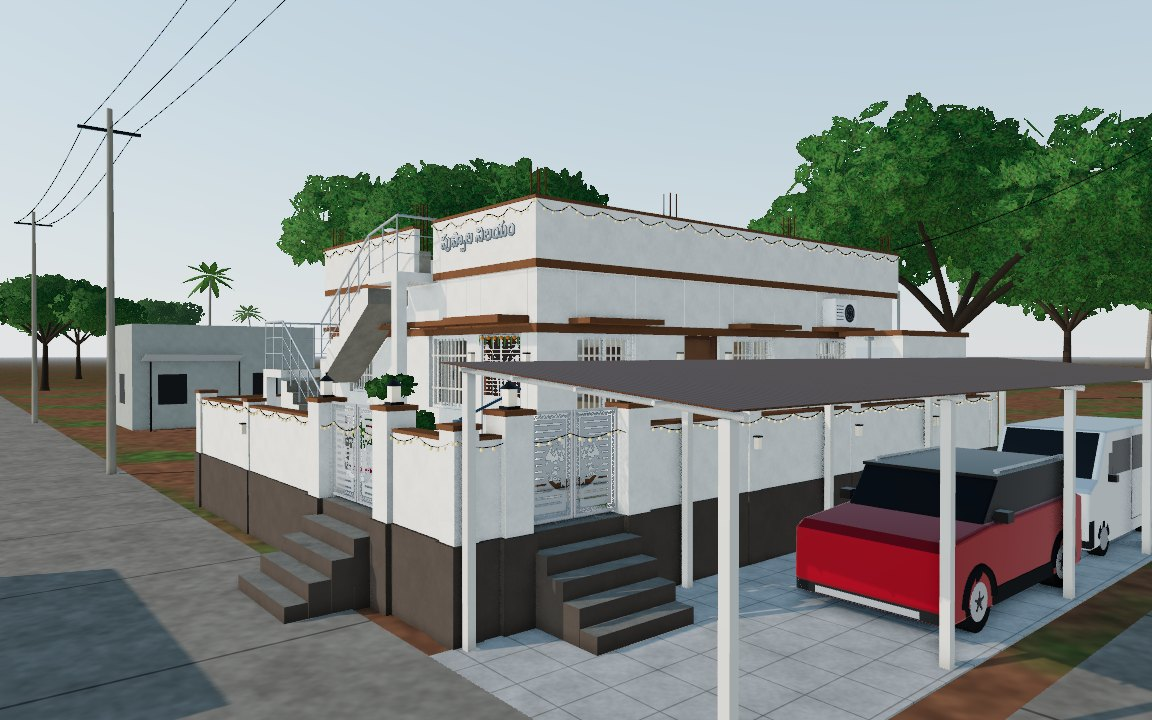
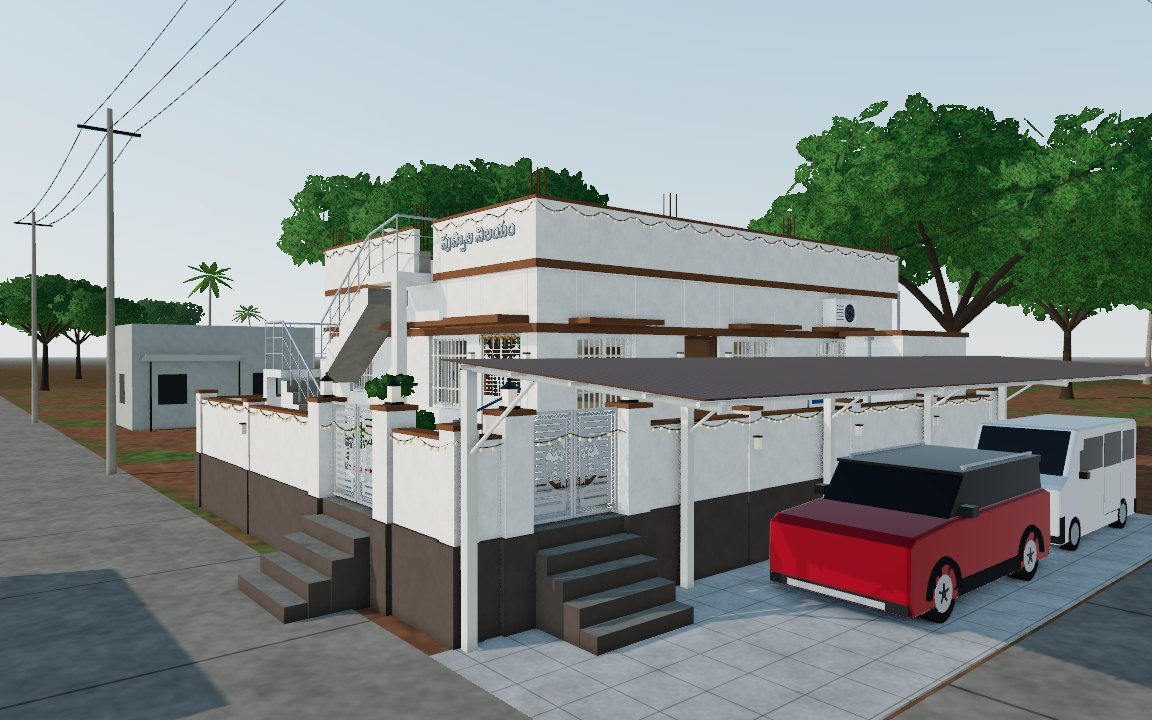
House model: cantilever car shed on the measured 12 ft strip
- North strip set to the measured 12 ft (4 gaja)
- Car shed cantilevers from wall-side columns with knee braces; no
  pillars on the road side, open entry from the east road
- Cars re-parked with about 3 ft for the driver's door
- Notes on tandem parking and sizing the cantilever

Claude-Session: https://claude.ai/code/session_0192vssTeX4mK8UEQq28xkYb

diff --git a/public/house/index.html b/public/house/index.html
@@ -581,14 +581,14 @@
         <li>House name <span lang="te">పుప్పాల నిలయం</span> in raised stainless steel letters fixed to the front parapet above the main door, with a warm backlight at night.</li>
         <li>Whole plot raised: the yard is earth-filled about 3′6″ above the road and the house floor sits 4′ above the road. The main door and north door have short slopes instead of steps. Both gates open at yard level, with four steps down to the road outside each one. The compound wall is a retaining wall up to yard level with 3′6″ of wall above.</li>
         <li>Steel safety door in front of the wooden main door, with a grill top with flower stems, latch and padlock, and laser-cut rose and fern panels below. Main gate and north gate in silver laser-cut steel with a floral border, floral half circles meeting in the middle, and horizontal slots.</li>
-        <li>Car shed along the full length of the north boundary wall, about 12′ × 44′, with steel columns in the wall colour and a colour-coated sheet roof in the band colour, so it matches the house. Cars drive in from the east road and park one behind the other past the north gate, so the gate and its steps stay clear. Shown with a dual-tone red and black Brezza in front and a white Eeco behind, both to their published sizes.</li>
+        <li>Car shed along the full length of the north boundary wall, about 11′6″ × 44′. The roof cantilevers from steel columns on the wall side with angled braces, so there are no pillars on the road side and the entry from the east road is fully open. Columns are in the wall colour and the colour-coated sheet roof in the band colour, so it matches the house. Cars drive in from the east road and park one behind the other past the north gate, with about 3′ for the driver’s door on the wall side and the passenger side open. Shown with a dual-tone red and black Brezza in front and a white Eeco behind, both to their published sizes.</li>
         <li>Gas cylinders in a ventilated steel cage against the kitchen’s south wall, in the side passage, with a copper pipe through the wall to the stove.</li>
         <li>North side: flower pots along the wall, and a wash area for utensils and clothes with a tiled floor, washing stone, tap, steel tub and clothes line.</li>
         <li>A split AC in each bedroom. The indoor unit sits above the window, the outdoor unit stands on that window’s sunshade, and a sleeved hole carries the insulated copper pipes and drain.</li>
         <li>Column starters for a future first floor: all 12 columns rise 1′6″ above the terrace with bars left projecting, and the stair landing reaches past them.</li>
         <li>White uPVC sliding windows with cream safety grills, uPVC ventilators, stainless steel stair railing, and a white water tank.</li>
         <li>Decoration lights: lanterns on the gate pillars, wall lights on the compound wall and beside both house doors, and festive string lights along the parapet and compound wall. Move the time slider past 6 PM to see them lit.</li>
-        <li>Open land of about 13′ between the north wall and the road (needed for the car shed), the south neighbour well away, and nothing behind the house. These gaps are estimates; tell me the real figures and I will match them.</li>
+        <li>12′ (4 gaja) between the north wall and the road, as measured. The south neighbour is well away and nothing stands behind the house; those two gaps are still estimates.</li>
       </ul>
     </div>
     <div class="check">
@@ -601,6 +601,8 @@
         <li><strong>Septic tank and borewell distance.</strong> They are about 28′ (8.5 m) apart on this plan. Common guidance is to keep a septic tank or soak pit around 15 m (50′) from a drinking-water borewell, which this plot cannot fit. Ask about a fully sealed tank and where its outflow will soak away, and keep that away from the borewell.</li>
         <li><strong>Land outside the wall.</strong> The car shed stands on the strip outside the north wall, and the main gate steps take about 3′6″ of the east road edge. Check that both are allowed and that the strip belongs to your plot, not road margin or panchayat land.</li>
         <li><strong>Earth filling.</strong> Raising the yard 3′6″ takes roughly 4,800 cu ft (about 135 m³) of soil, compacted in layers. The compound wall then holds back the fill, so it needs a proper footing and weep holes.</li>
+        <li><strong>Parking in 12′.</strong> The strip is too narrow to park side by side, since the Brezza alone is 13′1″ long, so the cars stand one behind the other. The Brezza has to move out before the Eeco can leave.</li>
+        <li><strong>Cantilever shed.</strong> An 11′ cantilever needs properly sized steel sections, column footings and anchor bolts. Have the fabricator size them rather than copying a pillared shed.</li>
         <li><strong>First floor later.</strong> Tell the engineer now, so the foundations, columns and roof slab are designed to carry a second floor.</li>
       </ul>
     </div>
@@ -642,7 +644,7 @@ const W = (u, v, y) => new THREE.Vector3(X(v), y, Z(u));
 const FFL = 2, CEIL = 12, ROOF = 12.42, PARA = 2.75;
 const TE = 0.75, TI = 0.5;
 const R = ROOF / 18; // stair riser
-const NGAP = 13; // open land between the north compound wall and the north road (car shed)
+const NGAP = 11; // 12 ft (4 gaja) from the north compound wall to the north road (car shed)
 const SGAP = 55; // open land between the plot and the house to the south
 const LIFT = 3.5; // earth filling of the plot above road level
 const DY = LIFT + 0.5 - FFL; // house groups move up so the floor sits 6" above the filled yard
@@ -1835,7 +1837,7 @@ function airConditioners(group) {
 }
 const interiorLights = [];
 const outdoorLights = [];
-for (const p of [W(-1.6, 5.1, LIFT + 3.2), W(8.25, -1.6, LIFT + 3.2), W(8.65, 6.5, FFL + 5.8 + DY), W(4.6, 19.3, FFL + 5.8 + DY), W(-6.3, 22, 8.2)]) {
+for (const p of [W(-1.6, 5.1, LIFT + 3.2), W(8.25, -1.6, LIFT + 3.2), W(8.65, 6.5, FFL + 5.8 + DY), W(4.6, 19.3, FFL + 5.8 + DY), W(-6.0, 22, 8.2)]) {
   const pl = new THREE.PointLight('#FFC98A', 0, 15, 2);
   pl.position.copy(p);
   scene.add(pl);
@@ -2040,21 +2042,23 @@ function eeco(parent, u, vRear) {
   parent.add(g);
 }
 function carShed(k, roofGroup) {
-  const yAt = (u) => 9.5 - ((-0.6 - u) / 11.8) * 0.88;
-  k.pbox(-12.4, -0.55, -1.5, 43.4, 0, 0.08, { def: 'paving', B: null });
+  // cantilevered from steel columns along the wall, so the road side has no pillars
+  const yAt = (u) => 9.6 - ((-0.6 - u) / 11.2) * 0.8;
+  k.pbox(-12.3, -0.55, -1.5, 43.4, 0, 0.08, { def: 'paving', B: null });
   for (const v of [-0.2, 10.65, 21.5, 32.35, 43.2]) {
-    for (const u of [-0.95, -11.9]) k.pbox(u - 0.165, u + 0.165, v - 0.165, v + 0.165, 0.08, yAt(u) - 0.1, { def: 'shedFrame', B: null });
-    rod(roofGroup, W(-0.6, v, yAt(-0.6)), W(-12.4, v, yAt(-12.4)), 0.11, MAT.shedFrame, 6);
+    k.pbox(-1.15, -0.75, v - 0.2, v + 0.2, 0.08, yAt(-0.95) - 0.1, { def: 'shedFrame', B: null });
+    rod(roofGroup, W(-0.6, v, yAt(-0.6)), W(-11.8, v, yAt(-11.8)), 0.13, MAT.shedFrame, 6);
+    rod(roofGroup, W(-0.95, v, 6.6), W(-4.6, v, yAt(-4.6) - 0.08), 0.08, MAT.shedFrame, 6);
   }
-  for (const u of [-1.5, -4.4, -7.3, -10.2]) rod(roofGroup, W(u, -0.9, yAt(u) + 0.08), W(u, 43.5, yAt(u) + 0.08), 0.07, MAT.shedFrame, 5);
+  for (const u of [-1.5, -4.3, -7.1, -9.9, -11.6]) rod(roofGroup, W(u, -0.9, yAt(u) + 0.08), W(u, 43.5, yAt(u) + 0.08), 0.07, MAT.shedFrame, 5);
   TEX.sheet.repeat.set(44.4 / 2.4, 1);
-  const sheet = mesh(new THREE.BoxGeometry(44.4, 0.05, 12.3), MAT.shed, roofGroup);
-  sheet.rotation.x = -Math.atan(0.88 / 11.8);
-  sheet.position.copy(W(-6.45, 21.3, yAt(-6.45) + 0.2));
-  rod(roofGroup, W(-6.3, 20.2, yAt(-6.3) - 0.25), W(-6.3, 23.8, yAt(-6.3) - 0.25), 0.07, MAT.tube, 8).castShadow = false;
-  // two cars parked one behind the other past the north gate, entered from the east road
-  brezza(k.group, -8.3, 25.2);
-  eeco(k.group, -8.3, 40.2);
+  const sheet = mesh(new THREE.BoxGeometry(44.4, 0.05, 11.5), MAT.shed, roofGroup);
+  sheet.rotation.x = -Math.atan(0.8 / 11.2);
+  sheet.position.copy(W(-6.05, 21.3, yAt(-6.05) + 0.2));
+  rod(roofGroup, W(-6.0, 20.2, yAt(-6.0) - 0.25), W(-6.0, 23.8, yAt(-6.0) - 0.25), 0.07, MAT.tube, 8).castShadow = false;
+  // two cars one behind the other past the north gate, about 3 ft of door space on the driver's side
+  brezza(k.group, -7.05, 25.2);
+  eeco(k.group, -7.05, 40.2);
 }
 function buildSite(k, roofGroup) {
   const site = k.group;
